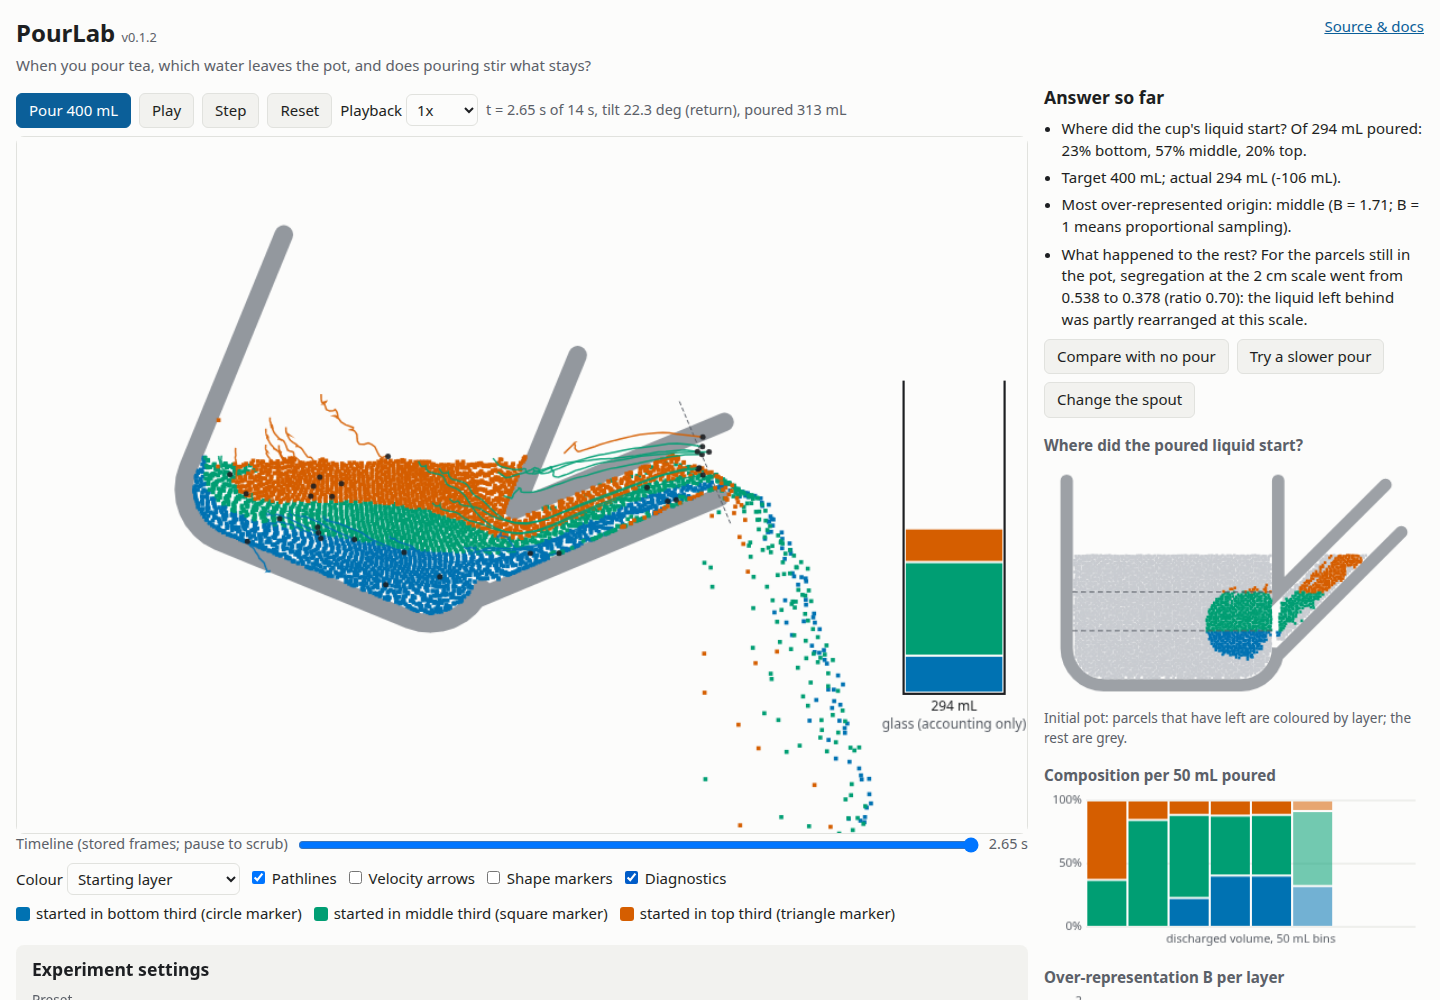
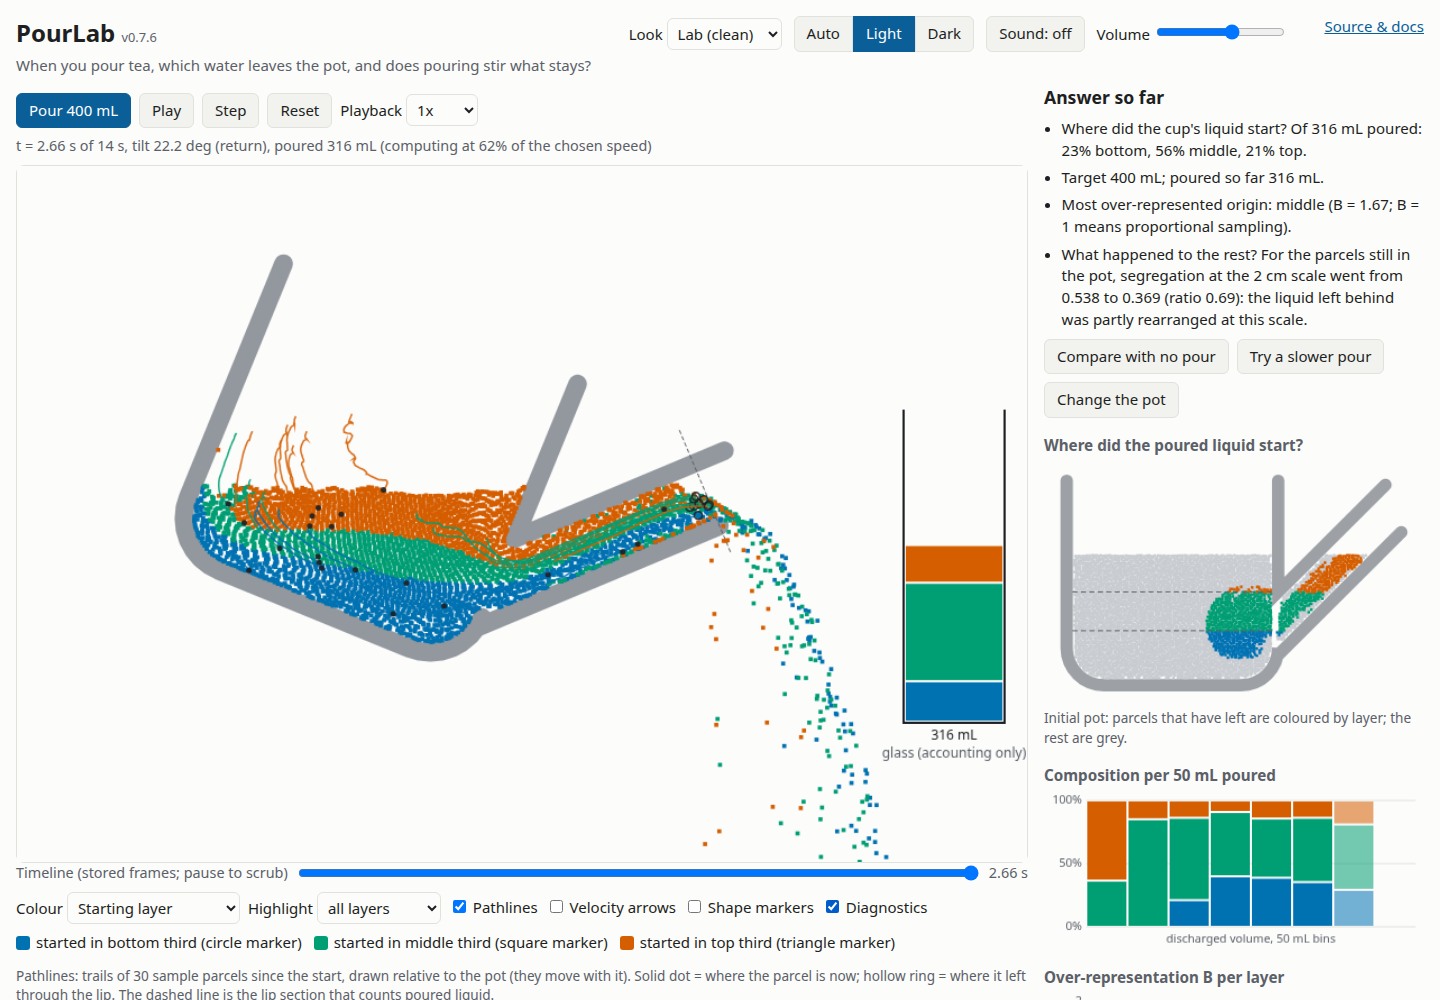
docs: refresh the stale v0.1.2 screenshot from the current build

diff --git a/scripts/screenshot.ts b/scripts/screenshot.ts
@@ -1,7 +1,7 @@
 // SPDX-License-Identifier: GPL-3.0-or-later
 // Copyright (C) 2026 Marcel Petrick
 //
-// Capture the README screenshot (docs/screenshot.png) from the production build mid-pour.
+// Capture a screenshot (default docs/screenshot.png) from the production build mid-pour.
 // Usage: npm run build && npx tsx scripts/screenshot.ts [outFile] [lab|cyber] [auto|light|dark]
 import { spawn } from 'node:child_process';
 import { chromium } from '@playwright/test';

diff --git a/scripts/README.md b/scripts/README.md
@@ -10,7 +10,7 @@ Small reusable helpers. All are run from the repository root.
 | `bump-version.sh`           | Bumps `package.json`/lockfile version without tagging. Patch for every commit, minor for major features. Prints the new version.                                            | `scripts/bump-version.sh patch\|minor\|major`                      |
 | `calibrate-anticipation.ts` | Bisects the pour controller's return anticipation for a preset so the automated pour lands near its target. The result goes into `src/sim/config.ts`. Never removes liquid. | `npx tsx scripts/calibrate-anticipation.ts <presetId> [quality]`   |
 | `serve-subpath.mjs`         | Static server for `dist/` under a sub-path, mimicking GitHub Pages; used by Playwright.                                                                                     | `node scripts/serve-subpath.mjs dist 4173 /teapotFluidSimulation/` |
-| `screenshot.ts`             | Captures the README screenshot (`docs/screenshot.png`) from the built site mid-pour with Playwright.                                                                        | `npm run build && npx tsx scripts/screenshot.ts`                   |
+| `screenshot.ts`             | Captures a full-page screenshot (default `docs/screenshot.png`; optional look and mode arguments) from the built site mid-pour with Playwright.                             | `npm run build && npx tsx scripts/screenshot.ts`                   |
 
 More helpers:
 
